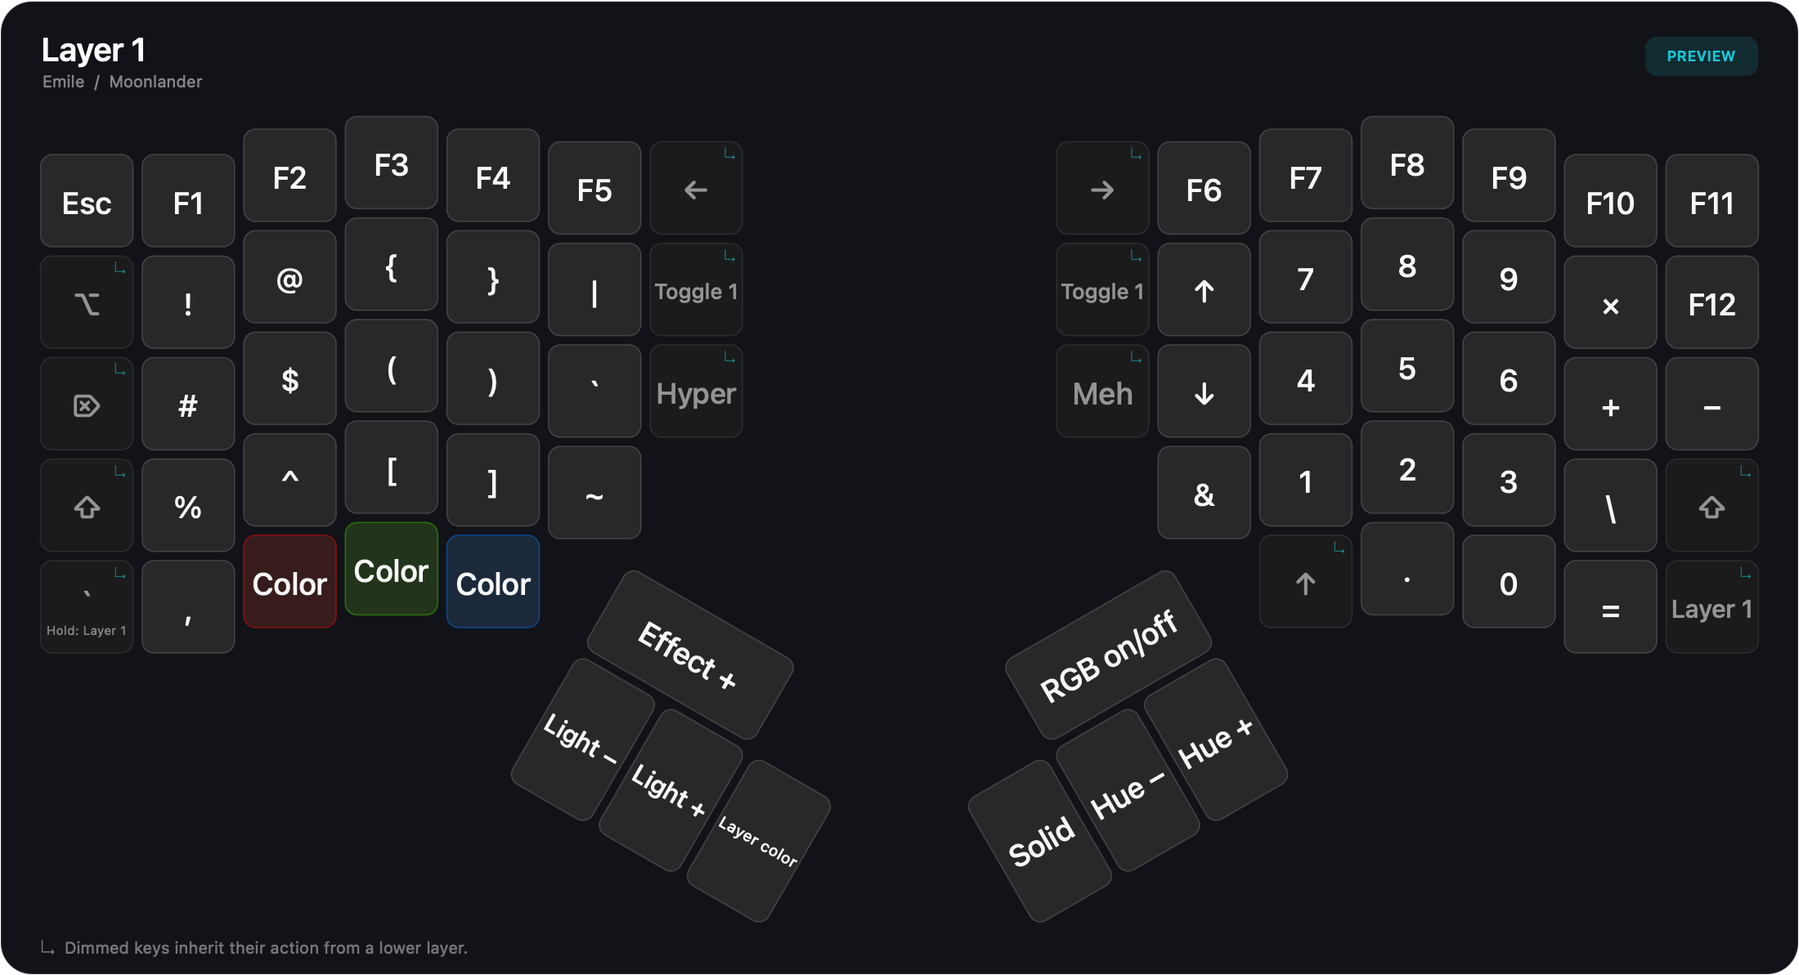
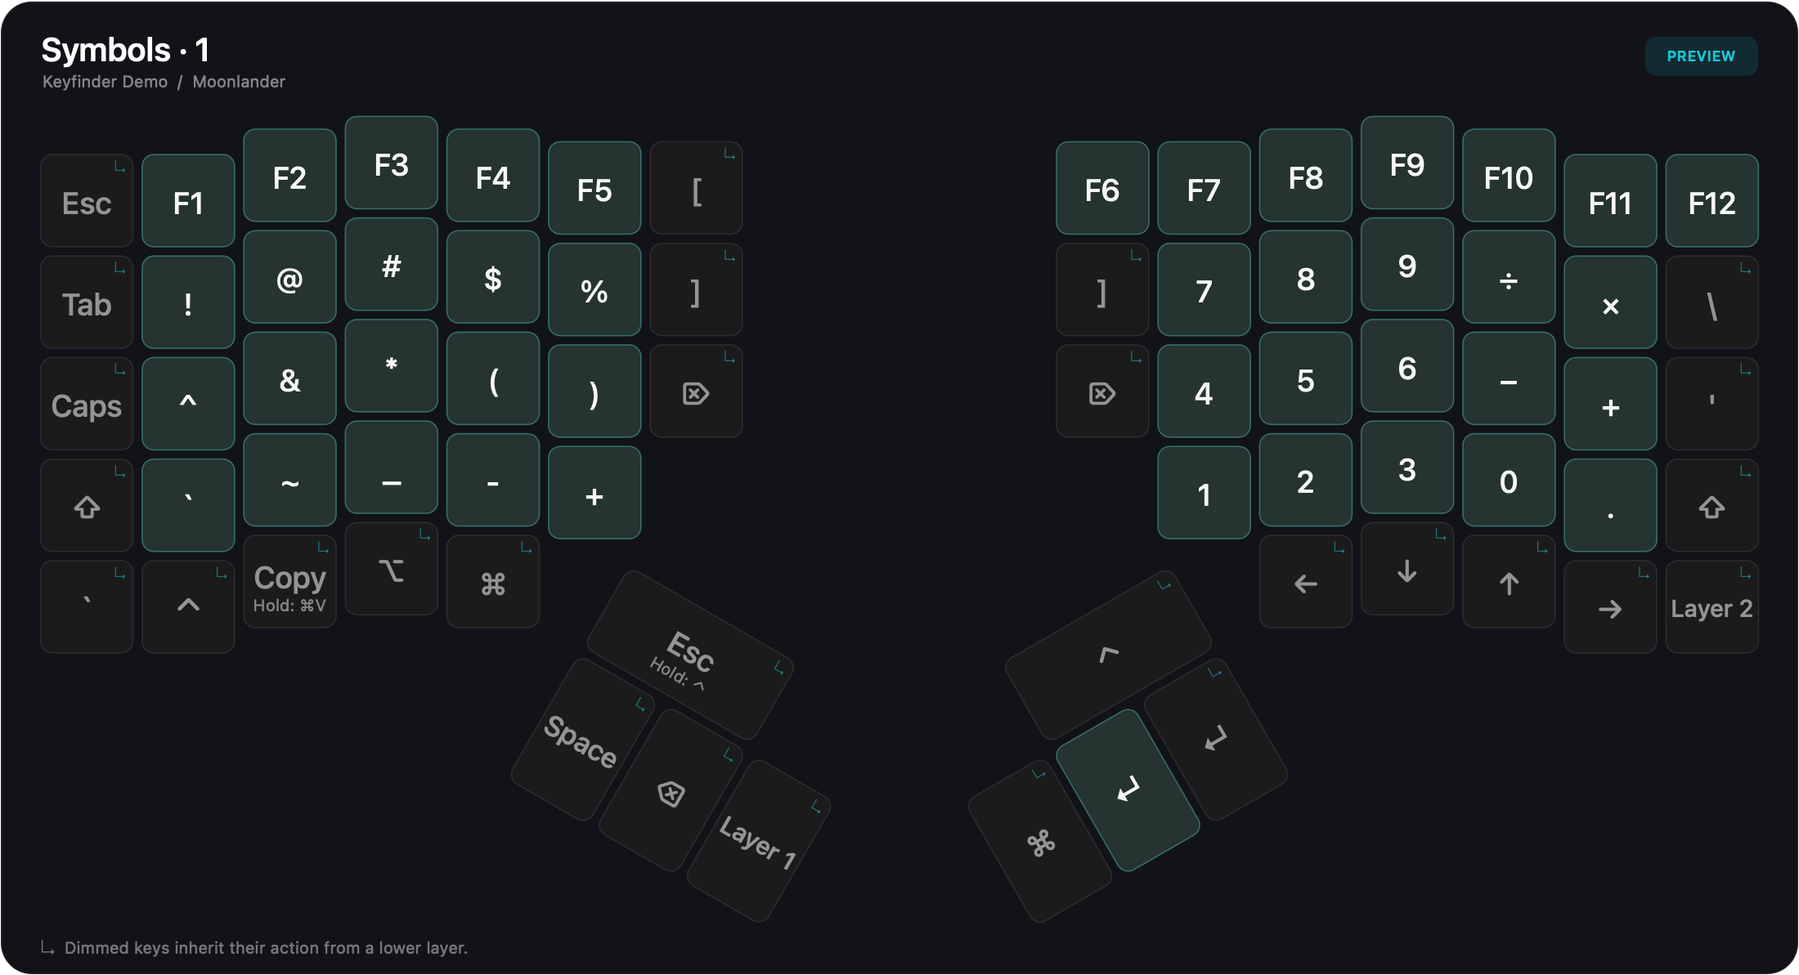
Prepare project documentation and screenshots for public readers
Place the AI-generated warning beneath the title, replace personal planning notes with architecture and contribution guides, and document generic setup and the synthetic demo. Refresh the keyboard screenshot, measured performance, and artifact verification record, and ignore local editor settings.

diff --git a/docs/VERIFICATION.md b/docs/VERIFICATION.md
@@ -1,26 +1,27 @@
 # Verification record
 
-Verified September 29, 2026 on macOS 26.6.2, Apple Silicon. The Nix package uses pinned Apple Swift 6.3.3 and macOS SDK 26.4, with Lix 2.93.2. The Moonlander was intentionally unplugged, as authorized by the user.
+Verified September 30, 2026 on macOS 26.6.2, Apple Silicon. The Nix package uses pinned Apple Swift 6.3.3 and macOS SDK 26.4, with Lix 2.93.2. Checks use synthetic layout fixtures and simulated keyboard events; no Moonlander was connected.
 
 **Software checks**
 
 | Check | Result |
 | --- | --- |
-| Core checks | 13 tests, 1,459 assertions passed |
-| Core checks plus explicit live Oryx query | 14 tests, 1,461 assertions passed; retrieved `exampleLayout/exampleRevision` with three 72-key layers |
-| Nix-packaged release AppKit integration | 35 checks passed, including menu bar visibility and Settings lifecycle |
+| Core checks | 13 tests, 1,460 assertions passed |
+| Core checks plus explicit live Oryx query | 14 tests, 1,462 assertions passed using a supplied exact-revision URL; no preset account or layout in the runner |
+| Nix-packaged release AppKit integration | 38 checks passed, including demo setup, menu bar visibility, and Settings lifecycle |
 | Visual inspection | All three keyboard layers and Keyboard, Appearance, and Layout & connection settings pages rendered and reviewed; long legends fitted without dropping layer numbers |
 | Standalone packaging | The Nix DMG mounted read-only; both the mounted app and a copy installed outside the store passed signature verification and bundled-layout diagnostics |
 | macOS deployment target | `26.0` in both Info.plist and the Mach-O build-version load command |
 | Local signature | `codesign --verify --strict` passed; ad-hoc signature |
-| App bundle size | 2,203,611 bytes (about 2.10 MiB) |
-| Nix runtime closure | 2,257,120 bytes; only the launcher and app bundle, with no compiler or SDK dependency |
-| Disk image size | 2,600,960 bytes (about 2.48 MiB), uncompressed |
+| App bundle size | 2,166,957 bytes (about 2.07 MiB) |
+| Nix runtime closure | 2,220,448 bytes; only the launcher and app bundle, with no compiler or SDK dependency |
+| Disk image size | 2,564,096 bytes (about 2.45 MiB), uncompressed |
 | Release workflow | `actionlint` passed; native Intel build and actual GitHub release publication remain untested |
 
 The integration checks use the actual AppDelegate, AppModel, repository, preferences, settings views, status item, and NSPanel. Keyboard events, revision-fetch responses, and launch/reopen notifications are simulated. They cover:
 
 - Starting unplugged, offline preview, layer-0 hiding, showing secondary layers, and switching labels.
+- Starting with no preset Oryx URL, keeping the synthetic demo separate from real keyboard associations, and initializing the preview from the first identified layout.
 - Preserving the foreground application and current key window, keeping the panel nonactivating, and setting click-through and Spaces/fullscreen collection behavior.
 - Cancelling a pending appearance on return to base, disconnect cleanup, explicit preview, and drag-positioning mode.
 - No redraw after 1,000 duplicate hidden-layer reports, no network calls for the bundled revision, and stopping/resuming the USB monitor.
@@ -38,11 +39,11 @@ The measurement launched the actual Nix-packaged release app with `--background`
 
 | Metric | Observed |
 | --- | --- |
-| Measurement duration | 30.003 seconds |
-| App CPU time during the interval | 0.000065 seconds |
-| Average CPU utilization | 0.000218% of one core |
-| Resident memory at end | 47.0 MiB |
-| Context switches during interval | 15 |
+| Measurement duration | 30.010 seconds |
+| App CPU time during the interval | 0.000059 seconds |
+| Average CPU utilization | 0.000197% of one core |
+| Resident memory at end | 46.5 MiB |
+| Context switches during interval | 16 |
 | Mach messages received during interval | 2 |
 | Threads at end | 3 |
 
@@ -54,9 +55,9 @@ A source audit found no repeating timers, polling loops, background URL sessions
 
 Actual USB pairing and layer reports, permission behavior with the Moonlander attached, real firmware flashing, and coexistence with Oryx live training/Keymapp remain untested because the keyboard is unplugged. Source review and packet fixtures support those paths; they do not substitute for a physical-device test.
 
-Sleep/wake observers, display fallback, fullscreen/Spaces configuration, and launch at login are implemented using native APIs. The tests check the panel configuration and simulated lifecycle rather than rebooting the Mac, changing its display hardware, or changing the user's login-item authorization. Verify those integrations on the user's normal desktop setup when connecting the keyboard.
+Sleep/wake observers, display fallback, fullscreen/Spaces configuration, and launch at login are implemented using native APIs. The tests check panel configuration and simulated lifecycle. Rebooting, display changes, login-item authorization, and firmware updates still require hardware acceptance on a representative desktop setup.
 
-Developer ID signing/notarization was not performed: the Mac has no valid Developer ID signing identity. The Nix-generated app is ad-hoc signed and runs locally. Distribution commands are documented in [Nix packaging](NIX.md#developer-id-signing-and-notarization).
+Developer ID signing and notarization are not configured. The Nix-generated app is ad-hoc signed and runs locally. Distribution commands are documented in [Nix packaging](NIX.md#developer-id-signing-and-notarization).
 
 **Nix packaging and reproducibility**
 
@@ -76,7 +77,7 @@ nix flake check --no-build --all-systems
 nix run .#smoke-test
 nix run .#previews
 nix run .#benchmark -- --seconds 30
-nix develop --command swift run KeyfinderCoreChecks --live-oryx
+nix develop --command swift run KeyfinderCoreChecks --live-oryx '<exact-revision Moonlander URL>'
 nix build .#dmg --out-link result-dmg
 nix build . .#keyfinder.appBundle --rebuild --no-link --option sandbox true
 nix build .#dmg --rebuild --no-link --option sandbox true
@@ -86,11 +87,11 @@ codesign --verify --strict result/Applications/Keyfinder.app
 Generated reports and images are in `artifacts/`. The verified release executable SHA-256 is:
 
 ```text
[2 lines of base64/hex data omitted]
 ```
 
 The verified DMG SHA-256 is:
 
 ```text
[2 lines of base64/hex data omitted]
 ```

diff --git a/docs/ARCHITECTURE.md b/docs/ARCHITECTURE.md
@@ -1,0 +1,65 @@
+# Architecture
+
+Keyfinder is a native macOS 26+ overlay for one connected ZSA Moonlander. It shows the keyboard's highest active layer, hides on layer 0, and loads the exact Oryx revision installed on the device. The Swift core is independent of the desktop adapter to leave room for a future Linux port.
+
+## Components
+
+| Component | Responsibility |
+| --- | --- |
+| `KeyfinderCore` | Validate layouts and device identities, decode Oryx reports, resolve key labels, and cache revision snapshots. |
+| `HIDMonitor` | Discover Moonlander revisions A and B, pair through the raw HID interface, and deliver device events on the main run loop. |
+| `AppModel` | Coordinate connection state, exact-revision retrieval, preview selection, and persisted preferences. |
+| `OverlayController` / `KeyboardView` | Present a nonactivating, click-through AppKit panel using the 72-key Moonlander geometry. |
+| `AppDelegate` / `SettingsView` | Manage the optional menu bar icon, Settings, explicit reopening, and login behavior. |
+| Nix expressions | Pin the compiler and SDK; build, check, sign, and package the app; configure the nix-darwin LaunchAgent. |
+
+## Device events and revision identity
+
+The app opens ZSA's raw HID interface without seizing the keyboard. It subscribes to device and input callbacks, requests the current firmware/layer state during pairing, and discards physical keypress reports. It does not collect typing history or install a global keyboard event tap.
+
+Oryx firmware exposes a `layoutID/revisionID` identity. The live overlay uses that exact revision, not whichever revision is newest online. Each connection has a generation-scoped request lease; replies from an earlier connection cannot replace the active layout.
+
+| Event | Result |
+| --- | --- |
+| Connect or wake | Pair, establish the current layer, and load the installed revision. |
+| Layer 0 report | Cancel any delayed appearance and hide immediately. |
+| Higher layer report | Present cached labels for that layer, or an explicit loading/error state. |
+| Preview refresh | Fetch the selected Oryx revision for inspection; leave live labels tied to the installed identity. |
+| Flash and reconnect | Read the new identity and activate its matching revision. |
+| Disconnect, pause, or sleep | Cancel pending work and hide the live overlay. |
+
+An unavailable revision never falls back to another layout's labels. Cached snapshots work offline. When firmware cannot identify its layout, a user may explicitly associate a real preview revision; the overlay marks that association as unverified.
+
+## Offline demo and first connection
+
+`Resources/DemoLayout.json` is a synthetic fixture with three layers and 72 positions per layer. Its `keyfinder-demo/v1` identity is local example data, not a published Oryx layout. The app does not offer an Oryx link or permit an unverified keyboard association for this demo.
+
+New preferences contain no preset Oryx URL. The first successfully retrieved installed layout initializes the preview and URL when no URL has been selected. A pasted URL or imported snapshot remains an explicit preview choice. The demo also supplies repeatable test and screenshot data without exposing a contributor's keyboard configuration.
+
+## Transparent keys
+
+Stock Oryx reports the highest active layer, not the complete set of active lower layers. A transparent key can therefore have more than one effective action. For example, the demo has `1` on layer 0, `F1` on layer 1, and transparency at the same position on layer 2. The overlay displays `1 / F1` rather than guessing whether layer 1 is active.
+
+The resolver compares action semantics, including tap/hold gestures and macros. Cosmetic labels do not establish equivalence. Disabled, inherited, ambiguous, and unknown actions remain distinct. Raw source JSON is retained for lossless import/export and future action formats.
+
+## Window lifecycle and performance
+
+The overlay cannot become the key or main window and passes clicks through. Dragging is enabled only during an explicit arrangement preview. It joins desktop Spaces and fullscreen environments; a missing display falls back to the main display.
+
+The menu bar icon is optional. Opening the app while the icon is hidden reveals Settings, including restoring a closed or minimized window. Login-item and `--background` launches remain quiet. Pause stops USB monitoring; Quit terminates the app without a keep-alive loop.
+
+There are no polling loops, repeating timers, scheduled Oryx refreshes, or continuous render callbacks. Labels are prepared when a layout changes. Duplicate layer reports do no UI work, and hidden overlays do no drawing. Connection deadlines and optional appearance delays are cancellable one-shot tasks. Diagnostic timing lives only in explicitly invoked verification tools.
+
+## Validation and future work
+
+The [verification record](VERIFICATION.md) distinguishes core tests, simulated AppKit integration, packaging checks, measured performance, and physical hardware acceptance. Contributions should preserve those distinctions.
+
+Future work includes physical acceptance across Moonlander revisions, Linux desktop integration, configurable hidden layers, and optional firmware support for full active/default-layer bitmasks. Linux packaging and exact resolution of ambiguous stacked layers are not currently implemented.
+
+## Protocol references
+
+- [ZSA Oryx module](https://github.com/zsa/qmk_modules/tree/main/oryx): pairing, layer updates, and raw HID reports.
+- [ZSA device identifiers](https://github.com/zsa/zapp/blob/a1be75837323001ad1ae8e5787d88cd33f2ccc46/zapp-core/src/device/ids.rs): Moonlander revisions A and B.
+- [ZSA installed-layout detection](https://github.com/zsa/zapp/blob/a1be75837323001ad1ae8e5787d88cd33f2ccc46/zapp/src/main.rs): firmware identity parsing.
+- [Moonlander geometry](https://github.com/zsa/qmk_firmware/blob/93b2b9ec3368f86c5eb5a2e3f934049f8daef885/keyboards/zsa/moonlander/reva/keyboard.json): physical key positions.
+- [Oryx with custom QMK](https://github.com/zsa/oryx-with-custom-qmk): a possible path for additional firmware state reporting.

diff --git a/docs/USAGE.md b/docs/USAGE.md
@@ -2,9 +2,11 @@
 
 Keyfinder is a macOS 26+ menu bar app for the ZSA Moonlander. [Download a disk image](../../../releases/latest) or [build and install with Nix](NIX.md), then open the app. Its keyboard icon lives in the menu bar by default; there is no Dock icon.
 
-On first launch, Settings opens with an offline keyboard preview. The bundled [example layout](https://configure.zsa.io/moonlander/layouts/exampleLayout/exampleRevision/0), revision `exampleRevision`, has three layers and lets you explore before connecting a keyboard. It is a starting example; the live overlay uses your keyboard's installed identity.
+On first launch, Settings opens with **Keyfinder Demo**, a synthetic three-layer example for typing, symbols, and navigation. The demo belongs to no Oryx account and has no online configuration. Connect a Moonlander to load its installed revision automatically, paste a layout URL in **Layout & connection**, or import a saved snapshot. The demo cannot be assigned to an unidentified keyboard.
 
 Turn off **Appearance → Show menu bar icon** to hide the icon immediately. The preference persists across launches and does not pause the overlay or USB monitoring. Open Keyfinder from Applications or Spotlight to show Settings again; this also restores a closed or minimized Settings window when the app is already running. Login-item and `--background` startup do not open Settings. You can restore the icon or quit Keyfinder from the Application section in Appearance.
+
+The app identifier is `io.keyfinder.app`. Earlier development builds used a different identifier, so their preferences, login-item registration, and macOS permissions are not reused. Disable an older build's login item before switching, then configure the new app as needed.
 
 ## Everyday use
 
@@ -22,7 +24,7 @@ Oryx firmware encodes `layoutID/revisionID` in the USB serial descriptor. Keyfin
 
 An Oryx edit that has not been flashed does not change the live overlay. “Load / refresh preview” retrieves the URL's chosen revision, or the latest revision when the URL contains `latest`. The preview stays separate from the installed layout. Refreshing never flashes firmware, switches keyboard layers, or changes lighting.
 
-Validated snapshots are cached under `~/Library/Application Support/Keyfinder/Layouts`. The bundled revision also acts as an offline cache. If a newly flashed revision cannot be fetched, Keyfinder displays an unavailable state instead of old key labels. Import/export uses Keyfinder's JSON snapshot format and preserves Oryx action data.
+Validated snapshots are cached under `~/Library/Application Support/Keyfinder/Layouts`. The synthetic demo remains available as an offline preview. If a newly flashed revision cannot be fetched, Keyfinder displays an unavailable state instead of old key labels. Import/export uses Keyfinder's JSON snapshot format and preserves Oryx action data.
 
 If the firmware cannot identify its layout, you can explicitly choose the preview revision for that connection. The overlay labels this selection as unverified.
 
@@ -50,4 +52,4 @@ Real device events, system notifications, UI interaction, and layout downloads p
 
 ## Protocol and geometry references
 
-USB protocol and device identity behavior follow ZSA's [Oryx module](https://github.com/zsa/qmk_modules/tree/main/oryx) and [Zapp](https://github.com/zsa/zapp). Physical key coordinates and matrix positions follow the [Moonlander definition](https://github.com/zsa/qmk_firmware/blob/93b2b9ec3368f86c5eb5a2e3f934049f8daef885/keyboards/zsa/moonlander/reva/keyboard.json), with thumb-cluster presentation adjusted for the Moonlander shape. See the [product plan](../PLAN.md) for pinned research references.
+USB protocol and device identity behavior follow ZSA's [Oryx module](https://github.com/zsa/qmk_modules/tree/main/oryx) and [Zapp](https://github.com/zsa/zapp). Physical key coordinates and matrix positions follow the [Moonlander definition](https://github.com/zsa/qmk_firmware/blob/93b2b9ec3368f86c5eb5a2e3f934049f8daef885/keyboards/zsa/moonlander/reva/keyboard.json), with thumb-cluster presentation adjusted for the Moonlander shape. See the [architecture](ARCHITECTURE.md) for pinned protocol references.

diff --git a/README.md b/README.md
@@ -1,11 +1,11 @@
-> [!WARNING]
-> This project is AI-generated.
-
 <div align="center">
 
 <img src="docs/assets/icon.png" width="96" height="96" alt="Keyfinder icon">
 
 # Keyfinder
+
+> [!WARNING]
+> This project is AI-generated.
 
 **Your Moonlander’s layers, in plain sight.**
 
@@ -20,7 +20,7 @@ A quiet macOS menu bar app that shows what every key does, right when you need i
 
 <img src="docs/assets/keyboard.png" width="1100" alt="Keyfinder’s Moonlander preview showing function keys, symbols, a number pad, and angled thumb clusters on layer 1">
 
-*Actual app preview. Your installed Oryx layout supplies the legends.*
+*Actual app preview with a synthetic demo layout. Connect a Moonlander to load its installed Oryx revision.*
 
 </div>
 
@@ -54,7 +54,7 @@ There is no periodic Oryx refresh. A layout download happens only for an uncache
 
 Requires **macOS 26 or later**. [Download the latest release →](../../releases/latest)
 
-Choose `Keyfinder-macOS-arm64.dmg` for Apple Silicon or `Keyfinder-macOS-x86_64.dmg` for Intel. Open the disk image, drag **Keyfinder.app** to Applications, and open it. Settings opens on first launch with an offline preview; connect your Moonlander when ready. Nix is not required to run the downloaded app.
+Choose `Keyfinder-macOS-arm64.dmg` for Apple Silicon or `Keyfinder-macOS-x86_64.dmg` for Intel. Open the disk image, drag **Keyfinder.app** to Applications, and open it. Settings opens with a synthetic offline demo. Connect your Moonlander to load its installed layout, or paste an Oryx URL in **Layout & connection**. Nix is not required to run the downloaded app.
 
 The downloads are signed ad hoc and are not notarized. If macOS blocks opening the app, use **System Settings → Privacy & Security → Open Anyway** after attempting to open it. If macOS requests Input Monitoring access, grant it to Keyfinder and retry the connection from Settings.
 
@@ -81,7 +81,7 @@ Pushing a Git tag builds and checks both architectures, then publishes the disk 
 
 ## Add it to nix-darwin
 
-Add the Keyfinder flake as an input to your existing configuration. This local-path example works before publishing the repository; replace the path with your checkout’s absolute path:
+Add your Keyfinder checkout as a flake input to an existing nix-darwin configuration. Replace the example path with the checkout’s absolute path:
 
 ```nix
 {
@@ -136,6 +136,6 @@ The Swift core covers layouts, labels, USB packet decoding, and caching. AppKit,
 
 Physical Moonlander pairing, real layer changes, and flash/reconnect behavior still need hardware acceptance testing. The current verification uses protocol fixtures, simulated USB events, and a live Oryx revision fetch. [Full verification record →](docs/VERIFICATION.md)
 
-[Architecture & product plan](PLAN.md) · [User guide](docs/USAGE.md) · [Nix packaging](docs/NIX.md)
+[Architecture](docs/ARCHITECTURE.md) · [Contributing](CONTRIBUTING.md) · [User guide](docs/USAGE.md) · [Nix packaging](docs/NIX.md)
 
 Built for [ZSA’s Moonlander](https://www.zsa.io/moonlander), using its [Oryx protocol](https://github.com/zsa/qmk_modules/tree/main/oryx). Keyfinder is an independent project.

diff --git a/CONTRIBUTING.md b/CONTRIBUTING.md
@@ -1,0 +1,29 @@
+# Contributing to Keyfinder
+
+Keyfinder targets macOS 26 and later. Start with the [architecture](docs/ARCHITECTURE.md) and [Nix packaging guide](docs/NIX.md). Linux support is a future direction; changes to the shared core should avoid unnecessary AppKit dependencies.
+
+## Development
+
+Use the checked-in flake and lock file for the compiler, SDK, build tools, and checks:
+
+```sh
+nix develop
+swift build
+swift run KeyfinderCoreChecks
+nix flake check
+nix fmt
+```
+
+For changes to windows, preferences, or app lifecycle, run `nix run .#smoke-test` in a graphical macOS session. For packaging changes, build `nix build .#dmg --out-link result-dmg`, mount the disk image, and verify that the copied app launches. See the packaging guide for signature and reproducibility checks.
+
+## Changes and verification
+
+Keep commits focused and describe the user-visible behavior, the reason for the change, and the checks performed. Include screenshots for visible UI changes. Separate simulated behavior from hardware observations in reports; a passing fixture test is not evidence of a successful firmware flash or real USB pairing.
+
+Preserve event-driven operation. Avoid polling, repeating timers, idle network requests, and continuous rendering. If a change may affect idle behavior, measure the packaged app with `nix run .#benchmark -- --seconds 30` and record the conditions alongside the results.
+
+## Fixtures and reports
+
+Use synthetic layouts and identifiers in committed fixtures. The bundled demo exercises typing, symbols, navigation, tap/hold actions, and ambiguous transparent keys without depending on an Oryx account. Live service checks require an explicitly supplied exact-revision URL and are separate from offline checks.
+
+Before attaching a snapshot, screenshot, or diagnostic report to an issue, remove personal layout URLs, account names, device serials, and private macros. Keep local editor settings, cached layouts, and generated artifacts out of commits. A useful bug report includes the macOS version, processor architecture, app revision, steps to reproduce, and expected versus observed behavior.

diff --git a/docs/NIX.md b/docs/NIX.md
@@ -52,10 +52,11 @@ For development:
 nix develop
 swift build
 swift run KeyfinderCoreChecks
-swift run KeyfinderCoreChecks --live-oryx
 ```
 
-The last command explicitly contacts Oryx; the ordinary build does not. To update pinned dependencies, run `nix flake update`, review `flake.lock`, then rebuild and rerun checks. Updating the compiler also requires reviewing the URL and content hash in `nix/toolchain.nix`.
+Core checks use synthetic fixtures and do not contact Oryx. To check the service explicitly, run `swift run KeyfinderCoreChecks --live-oryx '<exact-revision Moonlander URL>'` with a URL you choose; `latest` URLs are rejected so the expected identity is unambiguous. No account or layout URL is built into the test runner.
+
+To update pinned dependencies, run `nix flake update`, review `flake.lock`, then rebuild and rerun checks. Updating the compiler also requires reviewing the URL and content hash in `nix/toolchain.nix`.
 
 ## Reproducibility
 
